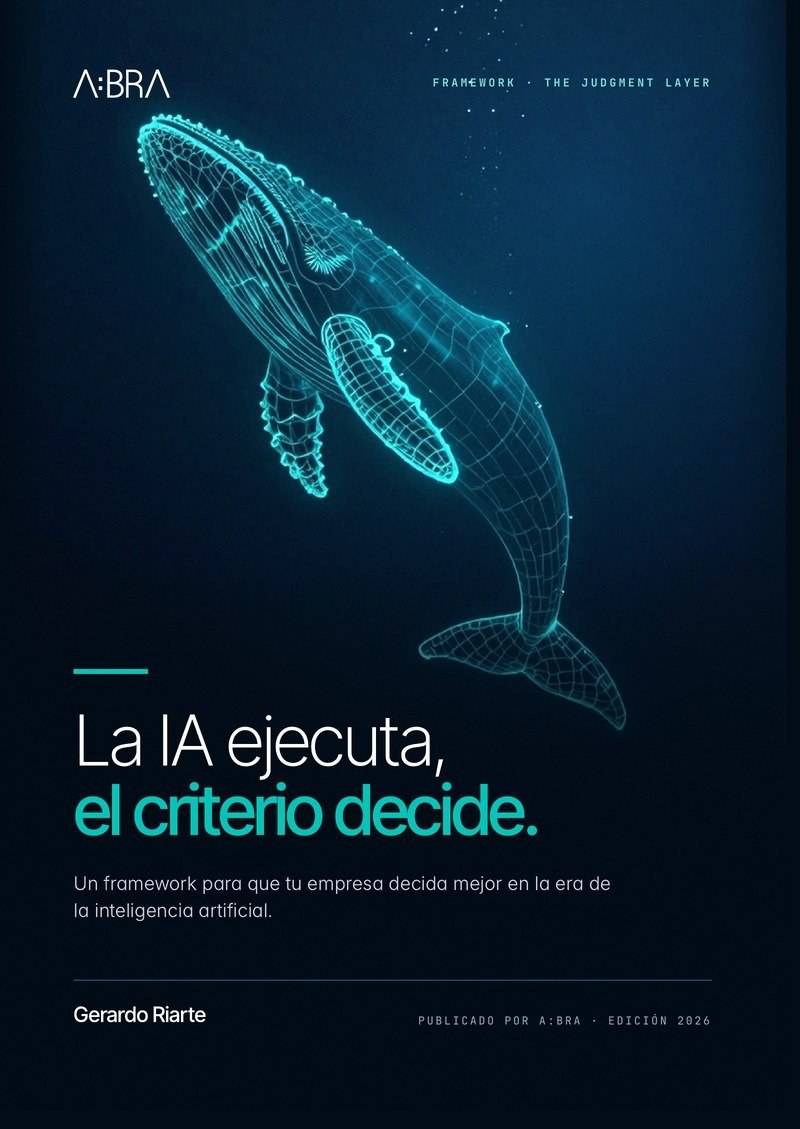
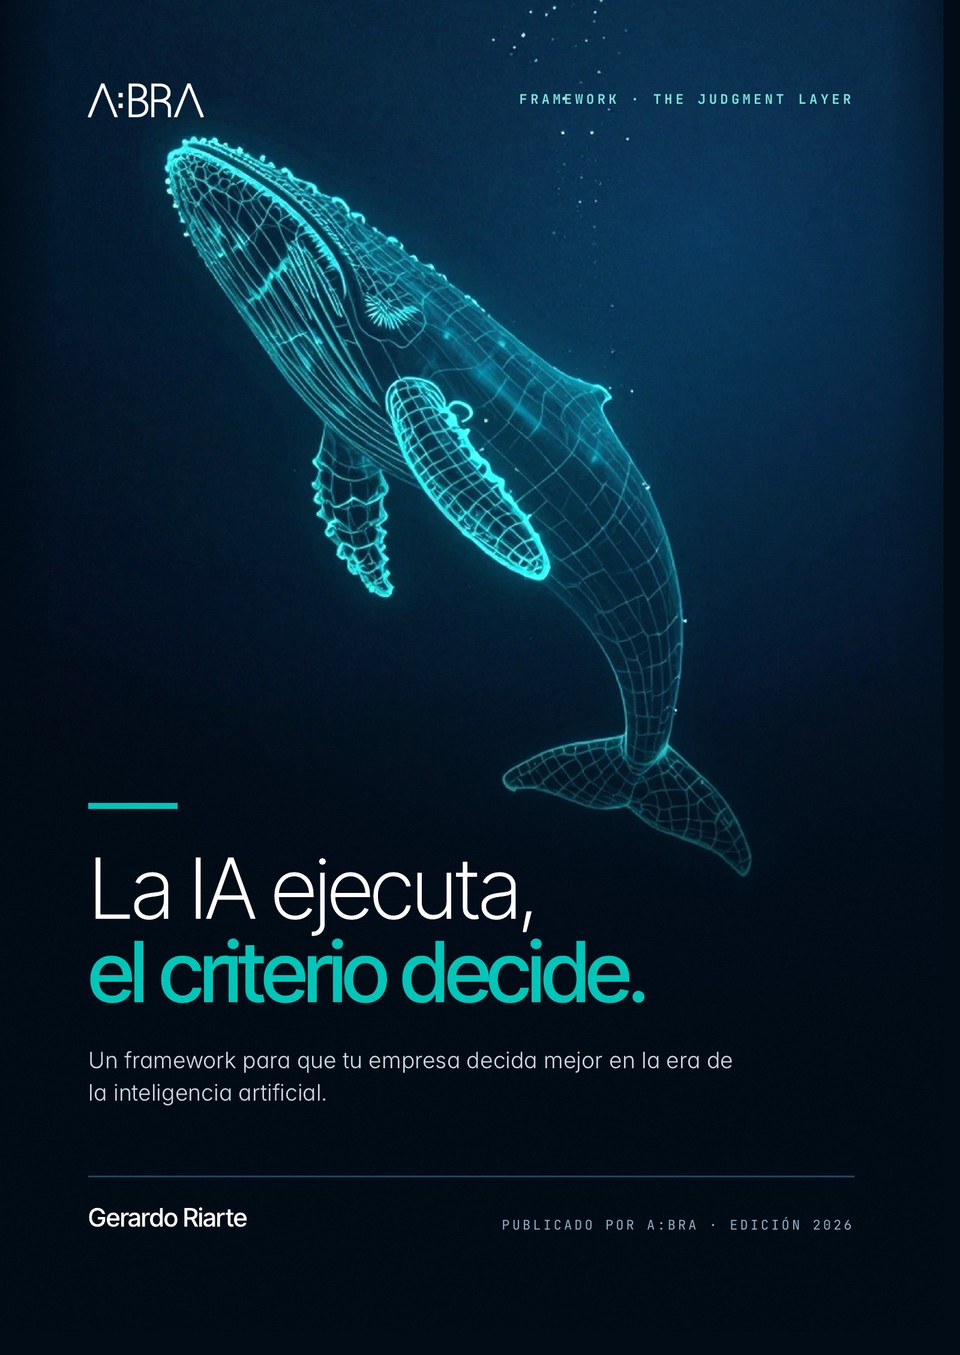
fix(libro): portada del libro con la imagen final
Reemplaza la portada extraída de la landing (base64) por la imagen final
de la tapa: webp 960 px para la landing y jpg 960 px para og:image.
Actualiza las dimensiones declaradas en la landing, Book.tsx y el CSS.

diff --git a/components/judgment-audit/judgment-audit.css b/components/judgment-audit/judgment-audit.css
@@ -77,7 +77,7 @@
 .ja-note { margin: 24px 0 0; max-width: 720px; font-size: 15px; font-weight: 300; color: var(--abra-muted); }
 
 .ja-book { display: grid; grid-template-columns: minmax(150px, 220px) 1fr; gap: 48px; align-items: center; margin-top: 48px; padding: 40px; }
-.ja-book__cover { position: relative; aspect-ratio: 800 / 1129; border-radius: 6px; overflow: hidden; box-shadow: 0 24px 50px rgba(0, 0, 0, 0.5), 0 0 0 1px rgba(255, 255, 255, 0.08); }
+.ja-book__cover { position: relative; aspect-ratio: 960 / 1355; border-radius: 6px; overflow: hidden; box-shadow: 0 24px 50px rgba(0, 0, 0, 0.5), 0 0 0 1px rgba(255, 255, 255, 0.08); }
 .ja-book__img { object-fit: cover; }
 .ja-book__copy { max-width: 640px; }
 .ja-book__actions { display: flex; flex-wrap: wrap; gap: 12px; }

diff --git a/public/libro/index.html b/public/libro/index.html
@@ -184,7 +184,7 @@ footer a{color:#8FA6B8}
     <a class="cta" href="https://pay.hotmart.com/XXXXXXXX">Quiero el libro <small>· USD 9.99</small></a>
     <div class="trust"><span>Acceso inmediato</span><span>Pago seguro con Hotmart</span><span>Garantía de 7 días</span></div>
   </div>
-  <div class="book"><img src="/libro/img/portada-la-ia-ejecuta.webp" width="800" height="1129" fetchpriority="high" alt="Portada del libro La IA ejecuta, el criterio decide"></div>
+  <div class="book"><img src="/libro/img/portada-la-ia-ejecuta.webp" width="960" height="1355" fetchpriority="high" alt="Portada del libro La IA ejecuta, el criterio decide"></div>
 </div></header>
 
 <!-- 2. PROBLEMA -->

diff --git a/components/judgment-audit/Book.tsx b/components/judgment-audit/Book.tsx
@@ -3,7 +3,7 @@ import { useTranslations } from 'next-intl';
 import { ButtonLink, Eyebrow } from './ui';
 
 const BOOK_COVER = '/libro/img/portada-la-ia-ejecuta.webp';
-const BOOK_COVER_SIZE = { width: 800, height: 1129 };
+const BOOK_COVER_SIZE = { width: 960, height: 1355 };
 const AMAZON_URL = 'https://www.amazon.com/dp/B0HQY3VHY8';
 
 /** Authority block closing the example section: the book behind the method. */
